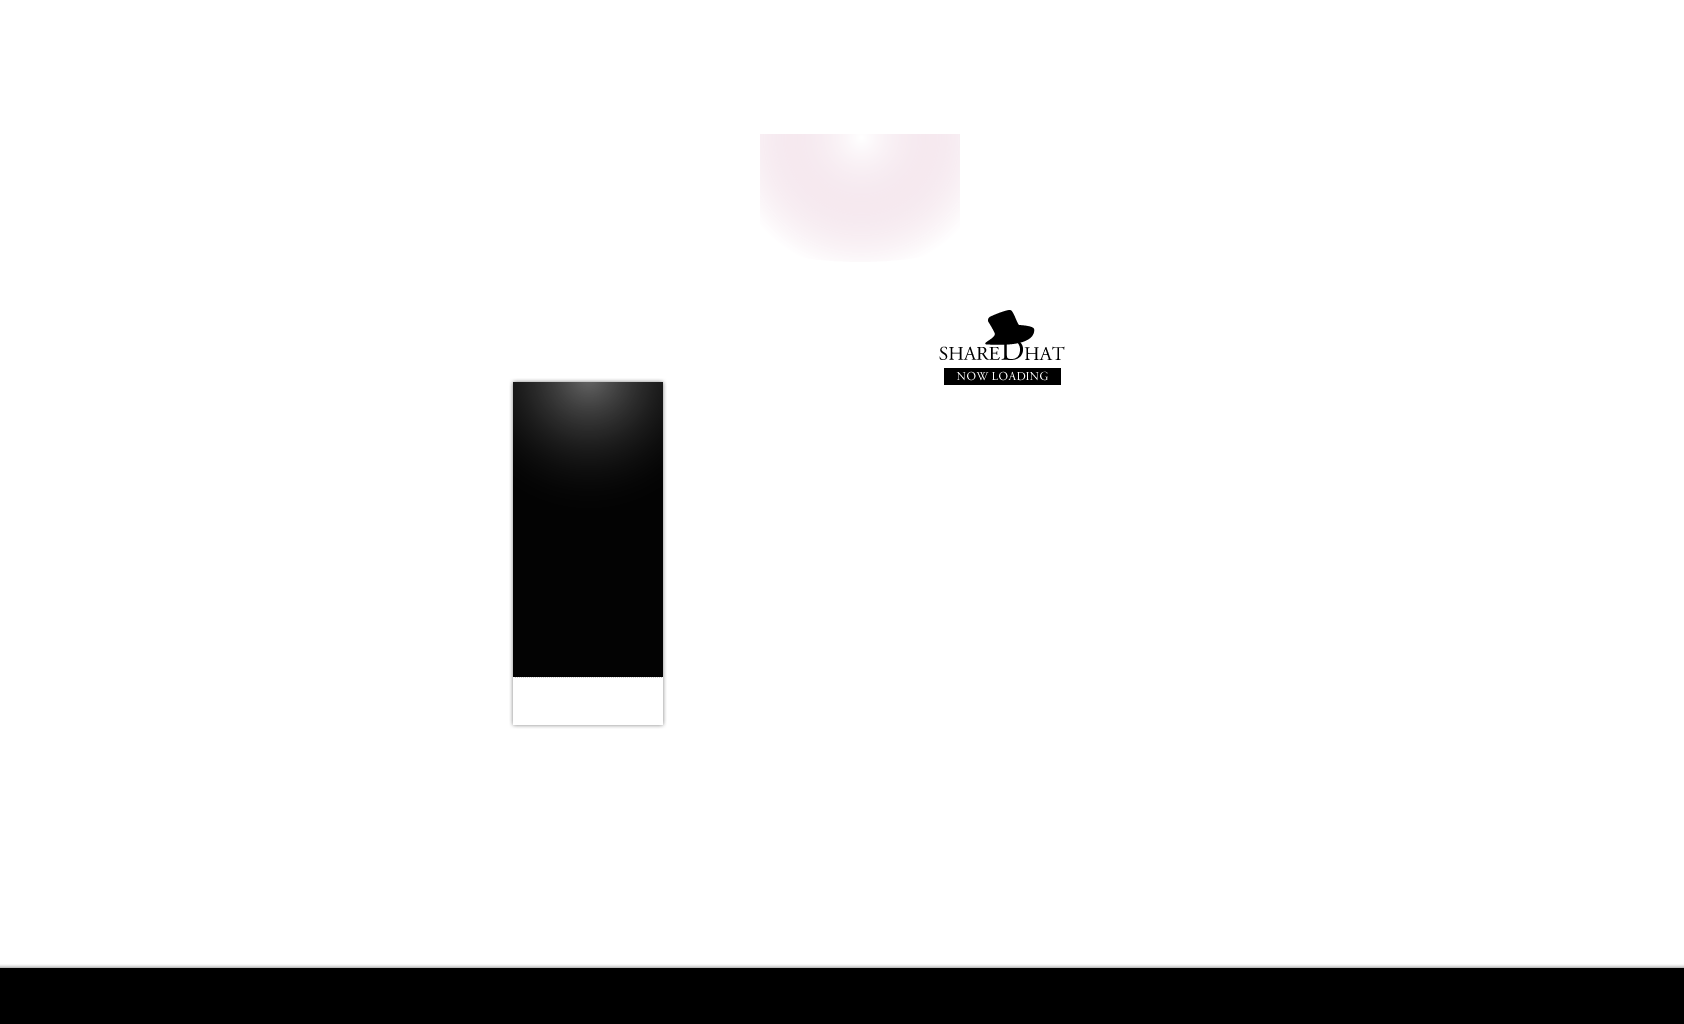
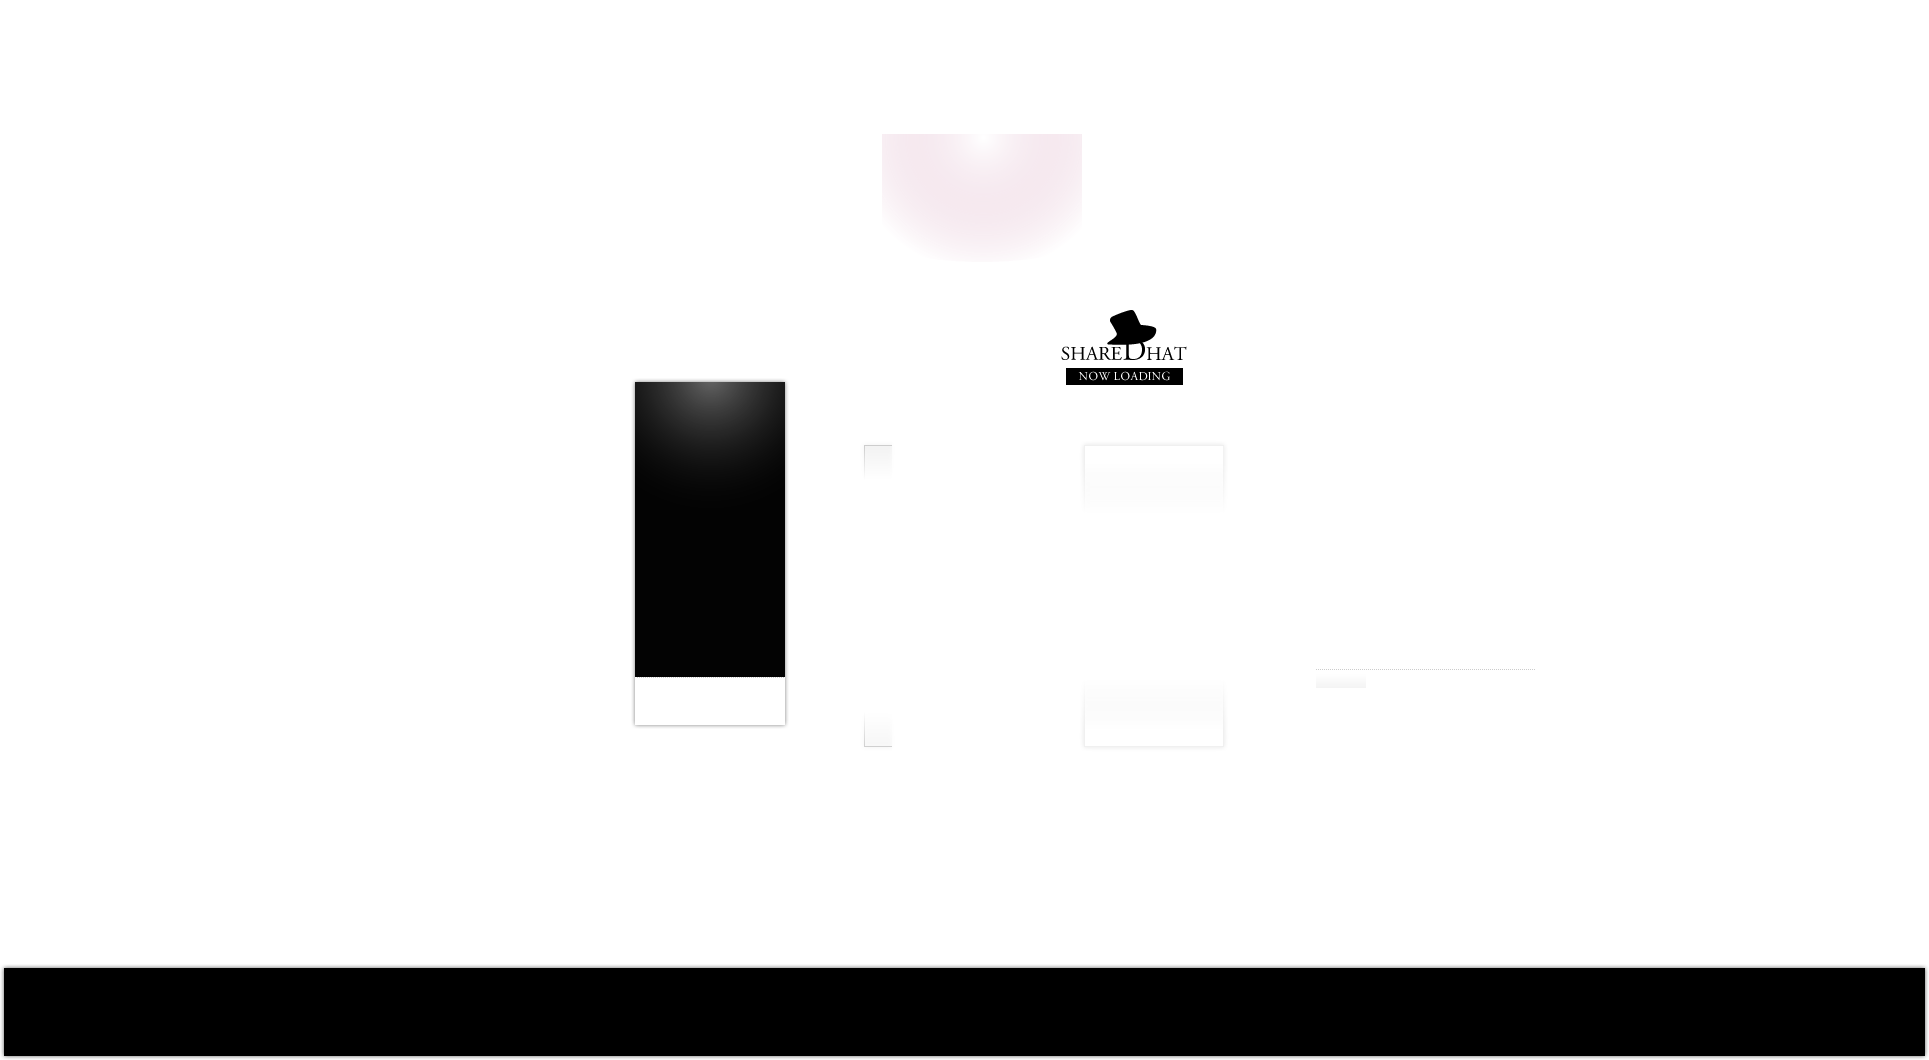
layout styles chnaged.

Changed region(s): [[0.0, 0.9062, 1.0, 1.0], [0.2779, 0.3438, 0.4323, 0.6875], [0.5558, 0.2812, 0.6485, 0.375]]

diff --git a/wp-content/themes/exhibition/css/module.css b/wp-content/themes/exhibition/css/module.css
@@ -475,16 +475,19 @@
 
 /* mod */
 .mod { margin-bottom: 20px; overflow:hidden; }
-.mod .hd { overflow: hidden; /*border-bottom: 2px solid #f0f0f0;*/ margin-bottom: 10px; }
-.mod h2 { margin-bottom: 5px; color: #197296; }
+.mod .hd { overflow: hidden; /*border-bottom: 2px solid #f0f0f0;*/ margin-bottom: 10px;  /*border-bottom: 1px solid #dddddd;*/  }
+.mod .hd h2 { margin-bottom: 5px; color: #197296; }
+.mod .hd h3, .mod .hd .explanation { float: left; display: inline; margin-bottom: 10px; text-transform: uppercase; }
+.mod .hd .explanation { padding-top: 4px; padding-left: 10px; }
 
-.mod h3, .mod .explanation { float: left; display: inline; margin-bottom: 10px; }
-.mod .explanation { padding-top: 4px; padding-left: 10px; }
+.mod .hd h3 { color: #333333; }
+
 
 .photo-frame .photography {
-	width: 678px;
+	width: 618px;
 	border: 1px solid #e6e6e6;
 	padding: 10px;
+	background: #ffffff;
 }
 
 .exif ul, .tags ul {
@@ -499,8 +502,53 @@
 	-webkit-border-radius: 5px;
 	-moz-border-radius: 5px;
 	border-radius: 5px;
-	border: 1px solid #cccccc;	
+	border: 1px solid #cccccc;
+	background: url(../images/bgi_tags.jpg) repeat-x left bottom;
 }
+
+
+
+
+
+
+.aside .hd {
+	background: url(../images/bgi_mod_aside.jpg) no-repeat left bottom;
+}
+
+
+
+/* Widget Categories
+------------------------*/
+.widget_categories ul {
+	margin-bottom: 0px;
+}
+
+.widget_categories ul li {
+	margin-bottom: 0px;
+}
+
+.widget_categories ul li li {
+	margin-left: 10px;
+}
+
+.widget_categories ul li a {
+	margin-bottom: 5px;
+	display: inline-block;
+}
+
+
+/* Widget Archive
+------------------------*/
+.widget_archive ul {
+	margin-bottom: 0px;
+}
+
+.widget_archive ul li {
+	margin-bottom: 5px;
+}
+
+
+
 
 
 

diff --git a/wp-content/themes/exhibition/css/template.css b/wp-content/themes/exhibition/css/template.css
@@ -17,6 +17,33 @@
 }
 
 
+.page .container,
+.single .container {
+	width: 960px;
+	margin: 0px auto;
+	overflow: hidden;
+/*	background: #f0f0f0; */
+}
+
+.contents {
+	float: left;
+	z-index: 1px;
+	position: relative;
+	padding: 80px 20px 0px 20px;
+	margin-left: 15px;
+	width: 640px;
+	background: #ffffff;
+	-moz-box-shadow: 0px 0px 18px #cccccc;
+	-webkit-box-shadow: 0px 0px 18px #cccccc;
+}
+
+.sidebar {
+	float: left;
+	padding: 80px 0px 0px 40px;
+	width: 220px;
+}
+
+
 /* Footer
 ----------------------------------*/
 .footer {
@@ -88,30 +115,3 @@
 	margin: 0px auto;
 }
 */
-
-
-.page .container,
-.single .container {
-	padding-top: 40px;
-	padding-top: 80px;
-	width: 940px;
-	margin: 0px auto;
-	overflow: hidden;
-/*	background: #f0f0f0; */
-}
-
-
-
-.contents {
-	float: left;
-	width: 700px;
-}
-
-.sidebar {
-	float: right;
-	width: 220px;
-}
-
-
-
-

diff --git a/wp-content/themes/exhibition/css/libraries.css b/wp-content/themes/exhibition/css/libraries.css
@@ -61,10 +61,9 @@ ul li {
 	margin-bottom: 15px;
 }
 
-
-ul li strong {
-	font-weight: normal;
-	color: #3a92ad;
+strong {
+	font-weight: bold;
+	color: #333333;
 }
 
 dl dt {

diff --git a/wp-content/themes/exhibition/functions.php b/wp-content/themes/exhibition/functions.php
@@ -55,7 +55,7 @@ function exhibition_widgets_init() {
 		'id'			=> 'primary-widget-area',
 		'name'			=> __('Primary Widget Area', 'exhibition'),
 		'description'	=> __('The primary widget area', 'exhibition'),
-		'before_widget'	=> '<div class="mod %1$s %2$s"><div class="inner">',
+		'before_widget'	=> '<div class="mod aside %1$s %2$s"><div class="inner">',
 		'after_widget'	=> '</div></div></div>',
 		'before_title'	=> '<div class="hd"><h3>',
 		'after_title'	=> '</h3></div><div class="bd">',

diff --git a/wp-content/themes/exhibition/static/single.php b/wp-content/themes/exhibition/static/single.php
@@ -29,7 +29,7 @@
 						'<p class=\'photo\'><a rel=\'bookmark\' title=\''.$title.'\' href=\''.get_permalink().'\'>',
 						array('alt' => $title, 'title' => $title),
 						'</a></p>',
-						array('w=678', 'q=90')
+						array('w=618', 'q=90')
 					);
 				?>
 			</div>
